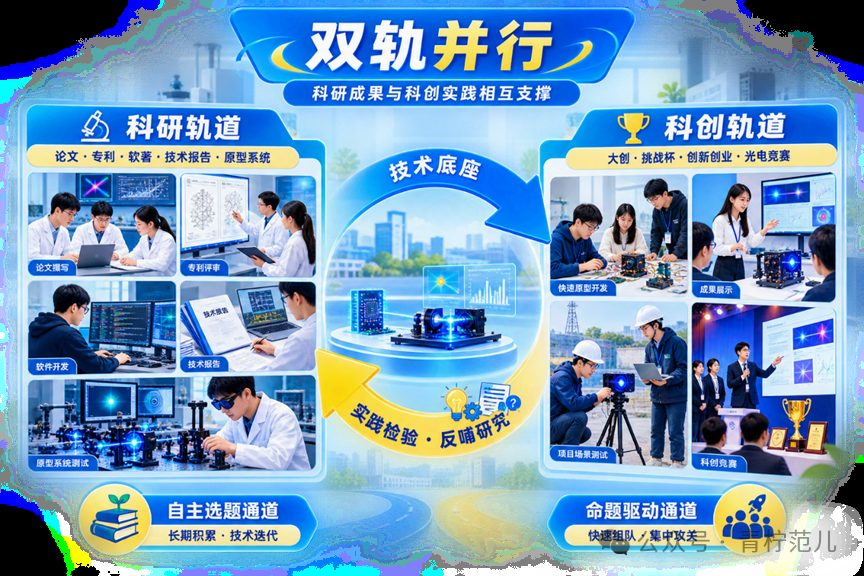
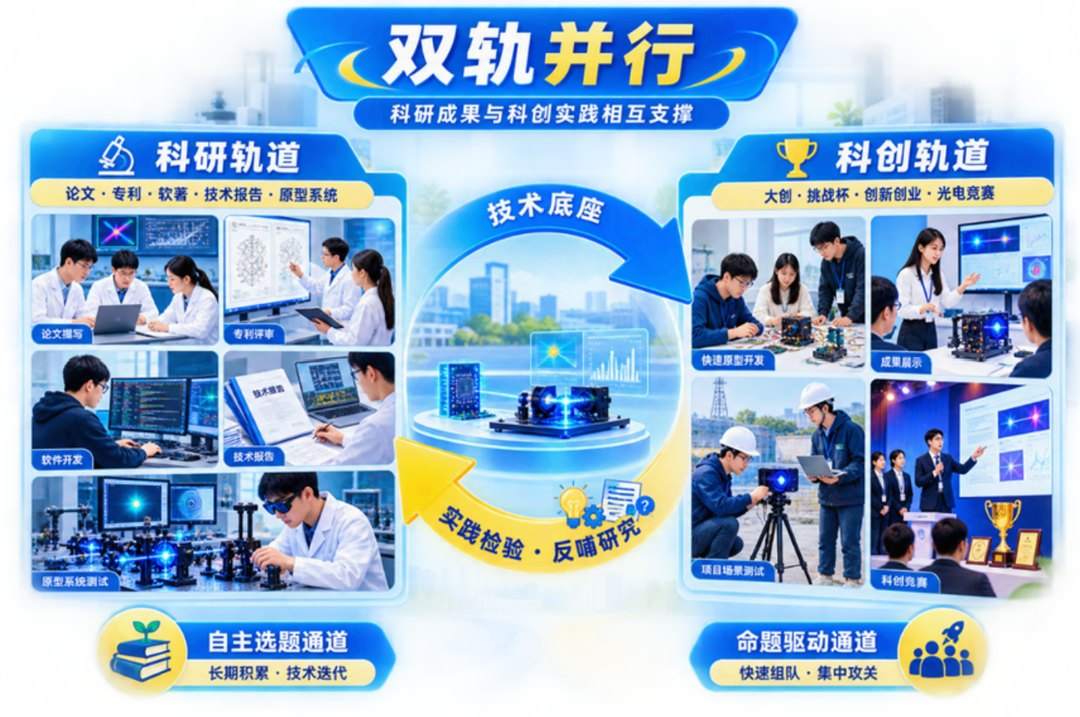
替换双轨并行图为高清截图版本

diff --git a/about.html b/about.html
@@ -101,7 +101,7 @@
     </div>
 
     <div class="mode-detail reveal" style="margin-bottom:64px">
-      <div class="md-fig tilt"><img src="assets/img/infra-dualtrack.jpg" alt="双轨并行：科研成果与科创实践相互支撑" loading="lazy"></div>
+      <div class="md-fig tilt"><img src="assets/img/infra-dualtrack.jpg?v=2" alt="双轨并行：科研成果与科创实践相互支撑" loading="lazy"></div>
       <div class="md-text">
         <div class="kicker">03 / DUAL-TRACK</div>
         <h3>双轨并行：科研成果与科创实践相互支撑</h3>
